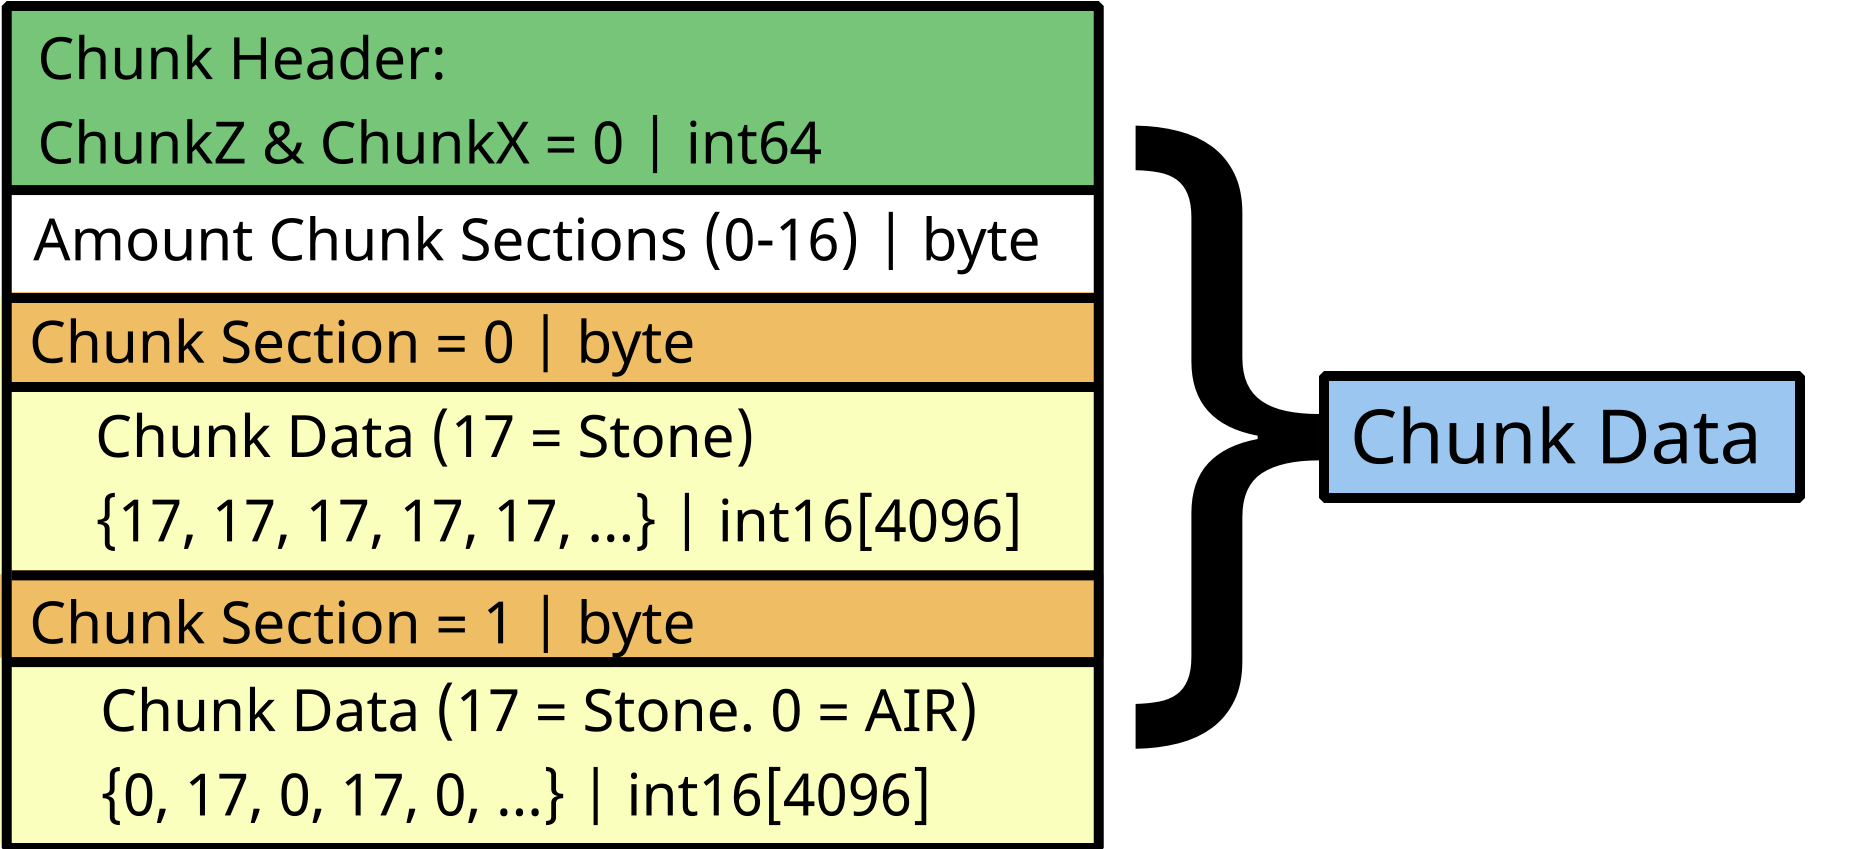
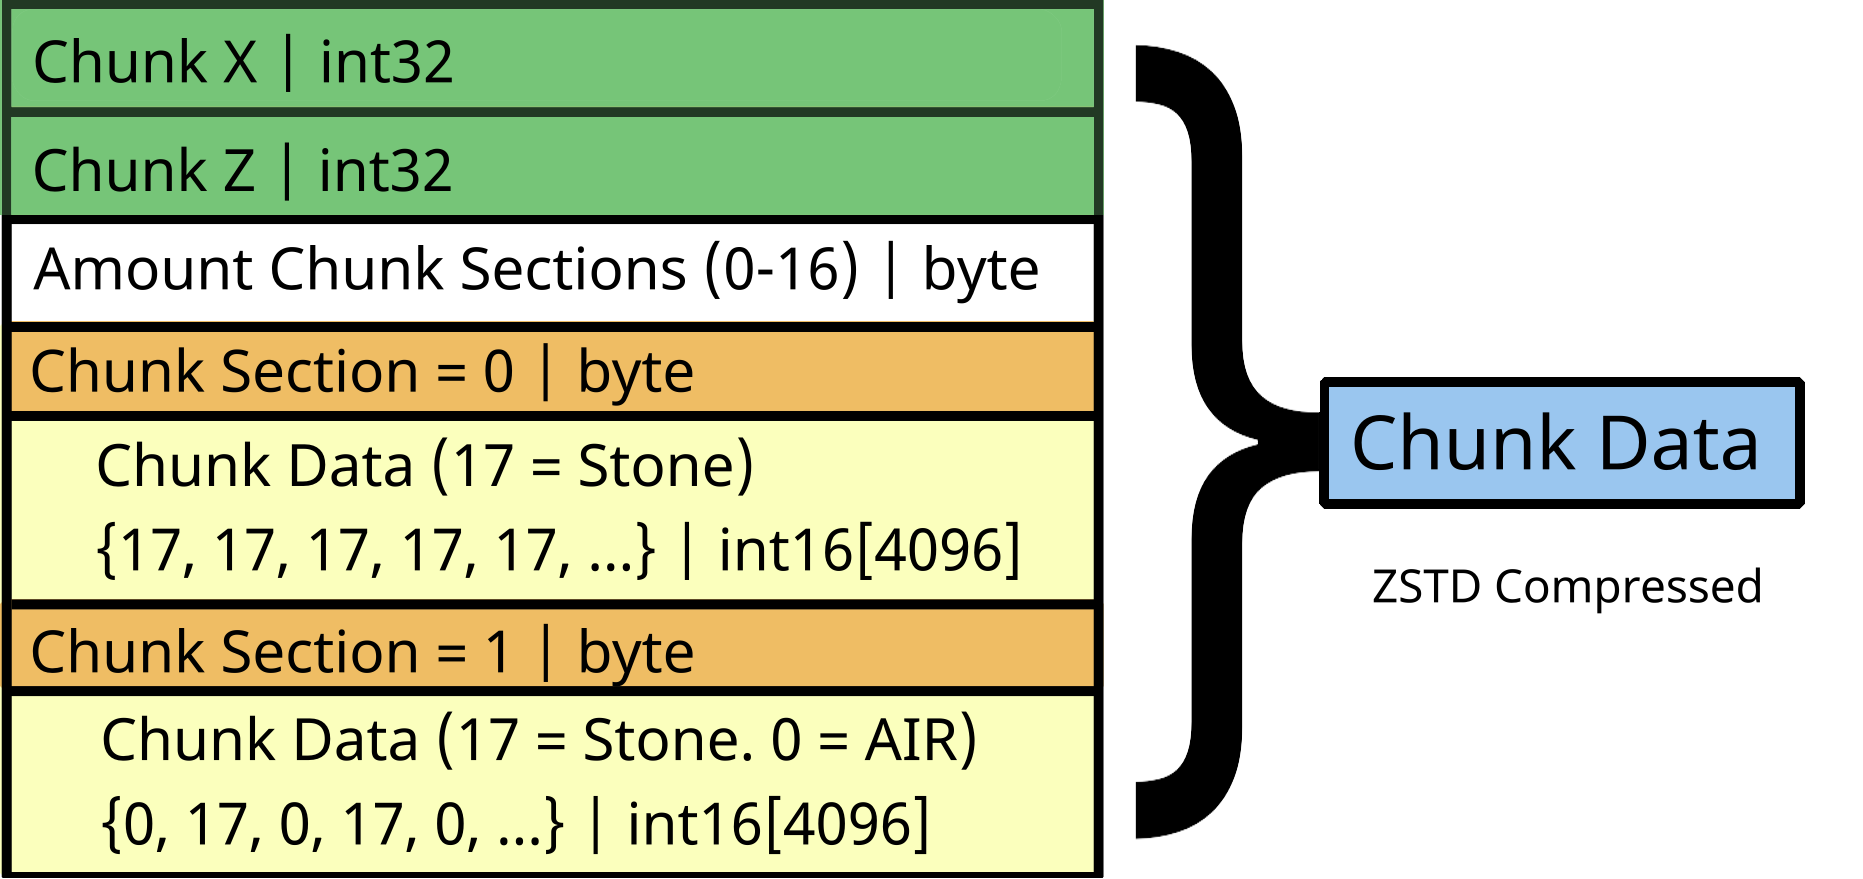
Update format

diff --git a/src/main/java/io/github/ichocomilk/minimalworld/converter/ChunkToBuffer.java b/src/main/java/io/github/ichocomilk/minimalworld/converter/ChunkToBuffer.java
@@ -1,31 +1,35 @@
 package io.github.ichocomilk.minimalworld.converter;
 
-import io.github.ichocomilk.minimalworld.MwPlugin;
+
+import org.bukkit.craftbukkit.v1_8_R3.CraftChunk;
+
 import net.minecraft.server.v1_8_R3.Chunk;
 import net.minecraft.server.v1_8_R3.ChunkSection;
 
-public class ChunkToBuffer {
+public final class ChunkToBuffer {
     
-    private final Chunk[] chunks;
-    private int chunksParsed = 0;
+    private final CraftChunk[] chunks;
+    private int chunksValid = 0;
+    private int bufferSize = 0;
 
-    public ChunkToBuffer(Chunk[] chunks) {
+    public ChunkToBuffer(CraftChunk[] chunks) {
         this.chunks = chunks;
     }
 
-
     public byte[] convert() {
-        final byte[] buffer = new byte[getBufferSize()];
+        bufferSize = getBufferSize();
+        if (bufferSize <= 0) {// Overflow
+            return null;
+        }
+        final byte[] buffer = new byte[bufferSize];
         fillBuffer(buffer);
         return buffer;
     }
 
     private int getBufferSize() {
-        int bufferSize = 1; // One byte for WORLD_VERSION
-        bufferSize += 4; // 4 bytes = Chunk amount
-
-        for (final Chunk chunk : chunks) {
-            final ChunkSection[] sections = chunk.getSections();
+        int bufferSize = 4; // Chunks Amount
+        for (final CraftChunk craftChunk : chunks) {
+            final ChunkSection[] sections = craftChunk.getHandle().getSections();
 
             int validSections = 0;
 
@@ -41,17 +45,17 @@ public class ChunkToBuffer {
                 // Chunk HEADER:
                 bufferSize += 8; // Compressed ChunkX & ChunkZ
                 bufferSize++; // Add one = Amount sections (0-16)
+                chunksValid++;
             }
         }
         return bufferSize;
     }
     
     private void fillBuffer(final byte[] buffer) {
-        int i = 0;
-        buffer[i++] = MwPlugin.WORLD_VERSION;
-        i = pushInt32(buffer, chunks.length, i);
+        int i = Buffers.pushInt32(buffer, chunksValid, 0);
 
-        for (final Chunk chunk : chunks) {
+        for (final CraftChunk craftChunk : chunks) {
+            final Chunk chunk = craftChunk.getHandle();
             final ChunkSection[] sections = chunk.getSections();
 
             int amountSections = 0;
@@ -64,60 +68,32 @@ public class ChunkToBuffer {
             if (amountSections == 0) {
                 continue;
             }
-            final long compressCord = chunk.locX << 32 | chunk.locZ;
-            i = pushInt64(buffer, compressCord, i);
-
-            chunksParsed++;
-            i = pushInt8(buffer, (byte)amountSections, i);
+;
+            i = Buffers.pushInt32(buffer, craftChunk.getX(), i);
+            i = Buffers.pushInt32(buffer, craftChunk.getZ(), i);
+            i = Buffers.pushInt8(buffer, (byte)amountSections, i);
 
             for (int j = 0; j < 16; j++) {
                 final ChunkSection section = sections[j];
                 if (section == null || section.a()) {
                     continue;
                 }
-                i = pushInt8(buffer, (byte)j, i); // Chunk Section ID
+                i = Buffers.pushInt8(buffer, (byte)j, i); // Chunk Section ID
                 final char[] blocks = section.getIdArray();
 
                 for (int b = 0; b < 4096; b++) {
                     final char block = blocks[b];
-                    i = pushInt16(buffer, block, i);
+                    i = Buffers.pushInt16(buffer, block, i);
                 }
             }
         }
     }
 
+    public int getSize() {
+        return bufferSize;
+    }
+
     public int getChunksParsed() {
-        return chunksParsed;
-    }
-
-    private int pushInt32(byte[] buffer, int value, int pos) {
-        buffer[pos++] = (byte)(value >> 24);
-        buffer[pos++] = (byte)(value >> 16);
-        buffer[pos++] = (byte)(value >> 8);
-        buffer[pos++] = (byte)value;
-        return pos;
-    }
-
-    private int pushInt16(byte[] buffer, char value, int pos) {
-        buffer[pos++] = (byte)(value >> 8);
-        buffer[pos++] = (byte)value;
-        return pos;
-    }
-
-    private int pushInt8(byte[] buffer, byte value, int pos) {
-        buffer[pos++] = (byte)value;
-        return pos;
-    }
-
-    private int pushInt64(byte[] buffer, long value, int pos) {
-        buffer[pos++] = (byte)(value >> 56);
-        buffer[pos++] = (byte)(value >> 48);
-        buffer[pos++] = (byte)(value >> 40);
-        buffer[pos++] = (byte)(value >> 32);
-        buffer[pos++] = (byte)(value >> 24);
-        buffer[pos++] = (byte)(value >> 16);
-        buffer[pos++] = (byte)(value >> 8);
-        buffer[pos++] = (byte)value;
-        return pos;
+        return chunksValid;
     }
 }

diff --git a/src/main/java/io/github/ichocomilk/minimalworld/commands/MwCommand.java b/src/main/java/io/github/ichocomilk/minimalworld/commands/MwCommand.java
@@ -13,8 +13,9 @@ import org.bukkit.craftbukkit.v1_8_R3.CraftChunk;
 
 import com.github.luben.zstd.Zstd;
 
+import io.github.ichocomilk.minimalworld.MwPlugin;
+import io.github.ichocomilk.minimalworld.converter.Buffers;
 import io.github.ichocomilk.minimalworld.converter.ChunkToBuffer;
-import net.minecraft.server.v1_8_R3.Chunk;
 
 public class MwCommand implements CommandExecutor {
 
@@ -46,32 +47,38 @@ public class MwCommand implements CommandExecutor {
 
         long time = System.currentTimeMillis();
 
-        final Chunk[] nmsChunks = new Chunk[chunks.length];
-        for (int i = 0; i < chunks.length; i++) {
-            nmsChunks[i] = chunks[i].getHandle();
+        final ChunkToBuffer chunkToBuffer = new ChunkToBuffer(chunks);
+        byte[] chunkBuffer = chunkToBuffer.convert();
+        if (chunkBuffer == null) {
+            sender.sendMessage("§cTo many chunks loaded. Try unload");
+            return true;
         }
-
-        final ChunkToBuffer chunkToBuffer = new ChunkToBuffer(nmsChunks);
-        byte[] buffer = chunkToBuffer.convert();
 
         long finish = System.currentTimeMillis() - time;
         sender.sendMessage(
             "\n  §aData collected in: " + finish + "ms" +
             "\n  §7Amount Chunks: §b" + chunkToBuffer.getChunksParsed() + 
-            "\n  §7Uncompress buffer: §b" + buffer.length 
+            "\n  §7Uncompress buffer: §b" + chunkBuffer.length 
         );
 
         time = System.currentTimeMillis();
-        buffer = Zstd.compress(buffer, compression);
+        chunkBuffer = Zstd.compress(chunkBuffer, compression);
         finish = System.currentTimeMillis() - time;
 
         sender.sendMessage(
             "\n §aCompression finish in: " + finish +
-            "\n §7Buffer size: §3" + buffer.length);
+            "\n §7Buffer size: §3" + chunkBuffer.length);
 
         final File worldFile = new File(worldFolder, args[0] + ".minworld");
         try (FileOutputStream outputStream = new FileOutputStream(worldFile)) {
-            outputStream.write(buffer);
+            // File header (No compressed)
+            final byte[] header = new byte[5];
+            header[0] = MwPlugin.WORLD_VERSION;
+            Buffers.pushInt32(header, chunkToBuffer.getSize(), 1);
+            outputStream.write(header);
+
+            // Chunk data (compressed)
+            outputStream.write(chunkBuffer);
         } catch (IOException e) {
             sender.sendMessage("§cError on writing " + args[0] + ".minworld file... Check the console");
             Bukkit.getLogger().warning(e.getMessage());

diff --git a/src/main/java/io/github/ichocomilk/minimalworld/converter/Buffers.java b/src/main/java/io/github/ichocomilk/minimalworld/converter/Buffers.java
@@ -1,0 +1,36 @@
+package io.github.ichocomilk.minimalworld.converter;
+
+public final class Buffers {
+
+    public static int pushInt32(byte[] buffer, int value, int pos) {
+        buffer[pos++] = (byte)(value >> 24);
+        buffer[pos++] = (byte)(value >> 16);
+        buffer[pos++] = (byte)(value >> 8);
+        buffer[pos++] = (byte)value;
+        return pos;
+    }
+
+    public static int pushInt16(byte[] buffer, char value, int pos) {
+        buffer[pos++] = (byte)(value >> 8);
+        buffer[pos++] = (byte)value;
+        return pos;
+    }
+
+    public static int pushInt8(byte[] buffer, byte value, int pos) {
+        buffer[pos++] = (byte)value;
+        return pos;
+    }
+
+    public static int pullInt32(byte[] buffer, int pos) {
+        int value = 0;
+        value |= (buffer[pos++] & 0xFF) << 24;
+        value |= (buffer[pos++] & 0xFF) << 16;
+        value |= (buffer[pos++] & 0xFF) << 8;
+        value |= (buffer[pos++] & 0xFF);
+        return value;
+    }
+
+    public static char pullInt16(byte[] buffer, int pos) {
+        return (char) ((buffer[pos] << 8) | (buffer[pos + 1] & 0xFF));
+    }
+}

diff --git a/README.md b/README.md
@@ -11,7 +11,7 @@
     <li>Amount of chunks to read</li>
     <li>Chunks data</li>
 </ul>
-<img src="github/mwformat.png" height="30%" width="24%">
+<img src="github/mwformat.png" >
 
 
 <h2>How is chunk data stored?</h2>
